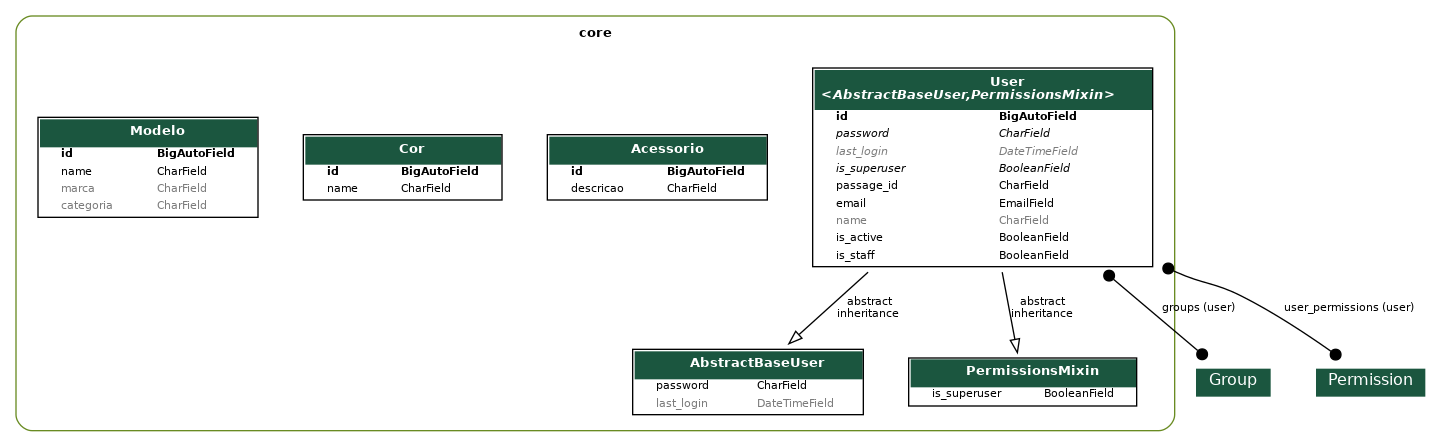
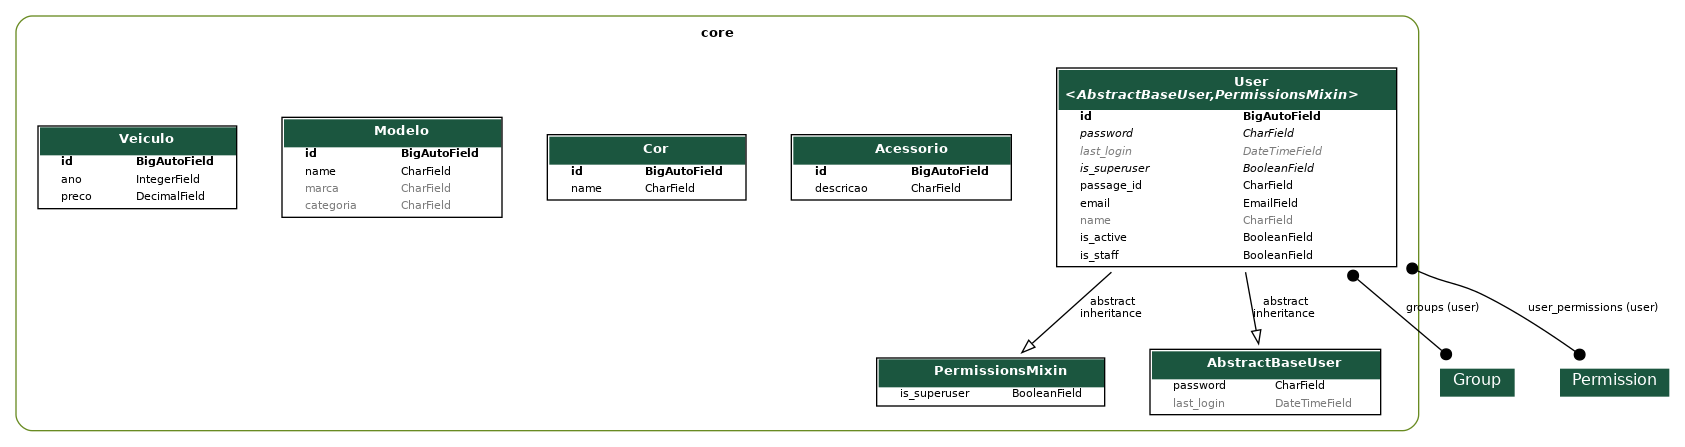
feat: criaçao api veiculo

Changed region(s): [[0.0, 0.0291, 0.9993, 0.9888], [0.4372, 0.4362, 0.4684, 0.4653], [0.406, 0.0582, 0.4372, 0.0872]]

diff --git a/app/urls.py b/app/urls.py
@@ -1,5 +1,6 @@
 from django.contrib import admin
 from django.urls import include, path
+from core.models import veiculo
 from drf_spectacular.views import (
     SpectacularAPIView,
     SpectacularRedocView,
@@ -7,14 +8,14 @@ from drf_spectacular.views import (
 )
 from rest_framework.routers import DefaultRouter
 
-from core.views import AcessorioViewSet, CorViewSet, ModeloViewSet, UserViewSet
-
+from core.views import AcessorioViewSet, CorViewSet, ModeloViewSet, UserViewSet, VeiculoViewSet
 router = DefaultRouter()
 
 router.register(r'usuarios', UserViewSet, basename='usuarios')
 router.register(r'acessorios', AcessorioViewSet, basename='acessorios')
 router.register(r'cores', CorViewSet, basename='cores')
 router.register(r'modelos', ModeloViewSet, basename='modelos')
+router.register(r'veiculos', VeiculoViewSet, basename='veiculos')
 
 urlpatterns = [
     path('admin/', admin.site.urls),

diff --git a/core/migrations/0008_veiculo.py b/core/migrations/0008_veiculo.py
@@ -1,0 +1,21 @@
+# Generated by Django 5.1.7 on 2025-04-22 18:15
+
+from django.db import migrations, models
+
+
+class Migration(migrations.Migration):
+
+    dependencies = [
+        ('core', '0007_modelo'),
+    ]
+
+    operations = [
+        migrations.CreateModel(
+            name='Veiculo',
+            fields=[
+                ('id', models.BigAutoField(auto_created=True, primary_key=True, serialize=False, verbose_name='ID')),
+                ('ano', models.IntegerField(default=0, null=True)),
+                ('preco', models.DecimalField(decimal_places=2, default=0, max_digits=10, null=True)),
+            ],
+        ),
+    ]

diff --git a/core/models/veiculo.py b/core/models/veiculo.py
@@ -1,0 +1,9 @@
+from django.db import models
+
+
+class Veiculo(models.Model):
+    ano = models.IntegerField(null=True, default=0)
+    preco = models.DecimalField(max_digits=10, decimal_places=2, null=True, default=0)
+    modelo = models.ForeignKey
+    def __str__(self):
+        return f"({self.id}) {self.modelo}, {self.cor} e {self.ano}"

diff --git a/core/views/veiculo.py b/core/views/veiculo.py
@@ -1,0 +1,9 @@
+from rest_framework.viewsets import ModelViewSet
+
+from core.models import Veiculo
+from core.serializers import VeiculoSerializer
+
+
+class VeiculoViewSet(ModelViewSet):
+    queryset = Veiculo.objects.all()
+    serializer_class = VeiculoSerializer

diff --git a/core/serializers/veiculo.py b/core/serializers/veiculo.py
@@ -1,0 +1,9 @@
+from rest_framework.serializers import ModelSerializer
+
+from core.models import Veiculo, veiculo
+
+
+class VeiculoSerializer(ModelSerializer):
+    class Meta:
+        model = Veiculo
+        fields = "__all__"

diff --git a/core/admin.py b/core/admin.py
@@ -55,3 +55,4 @@ admin.site.register(models.User, UserAdmin)
 admin.site.register(models.Acessorio)
 admin.site.register(models.Cor)
 admin.site.register(models.Modelo)
+admin.site.register(models.Veiculo)

diff --git a/core/serializers/__init__.py b/core/serializers/__init__.py
@@ -2,3 +2,4 @@ from .user import UserSerializer
 from .acessorio import AcessorioSerializer
 from .cor import CorSerializer
 from .modelo import ModeloSerializer
+from .veiculo import VeiculoSerializer

diff --git a/core/views/__init__.py b/core/views/__init__.py
@@ -2,3 +2,4 @@ from .user import UserViewSet
 from .acessorio import AcessorioViewSet
 from .cor import CorViewSet
 from .modelo import ModeloViewSet
+from .veiculo import VeiculoViewSet

diff --git a/core/models/__init__.py b/core/models/__init__.py
@@ -2,3 +2,4 @@ from .user import User
 from .acessorio import Acessorio
 from .cor import Cor
 from .modelo import Modelo
+from .veiculo import Veiculo
